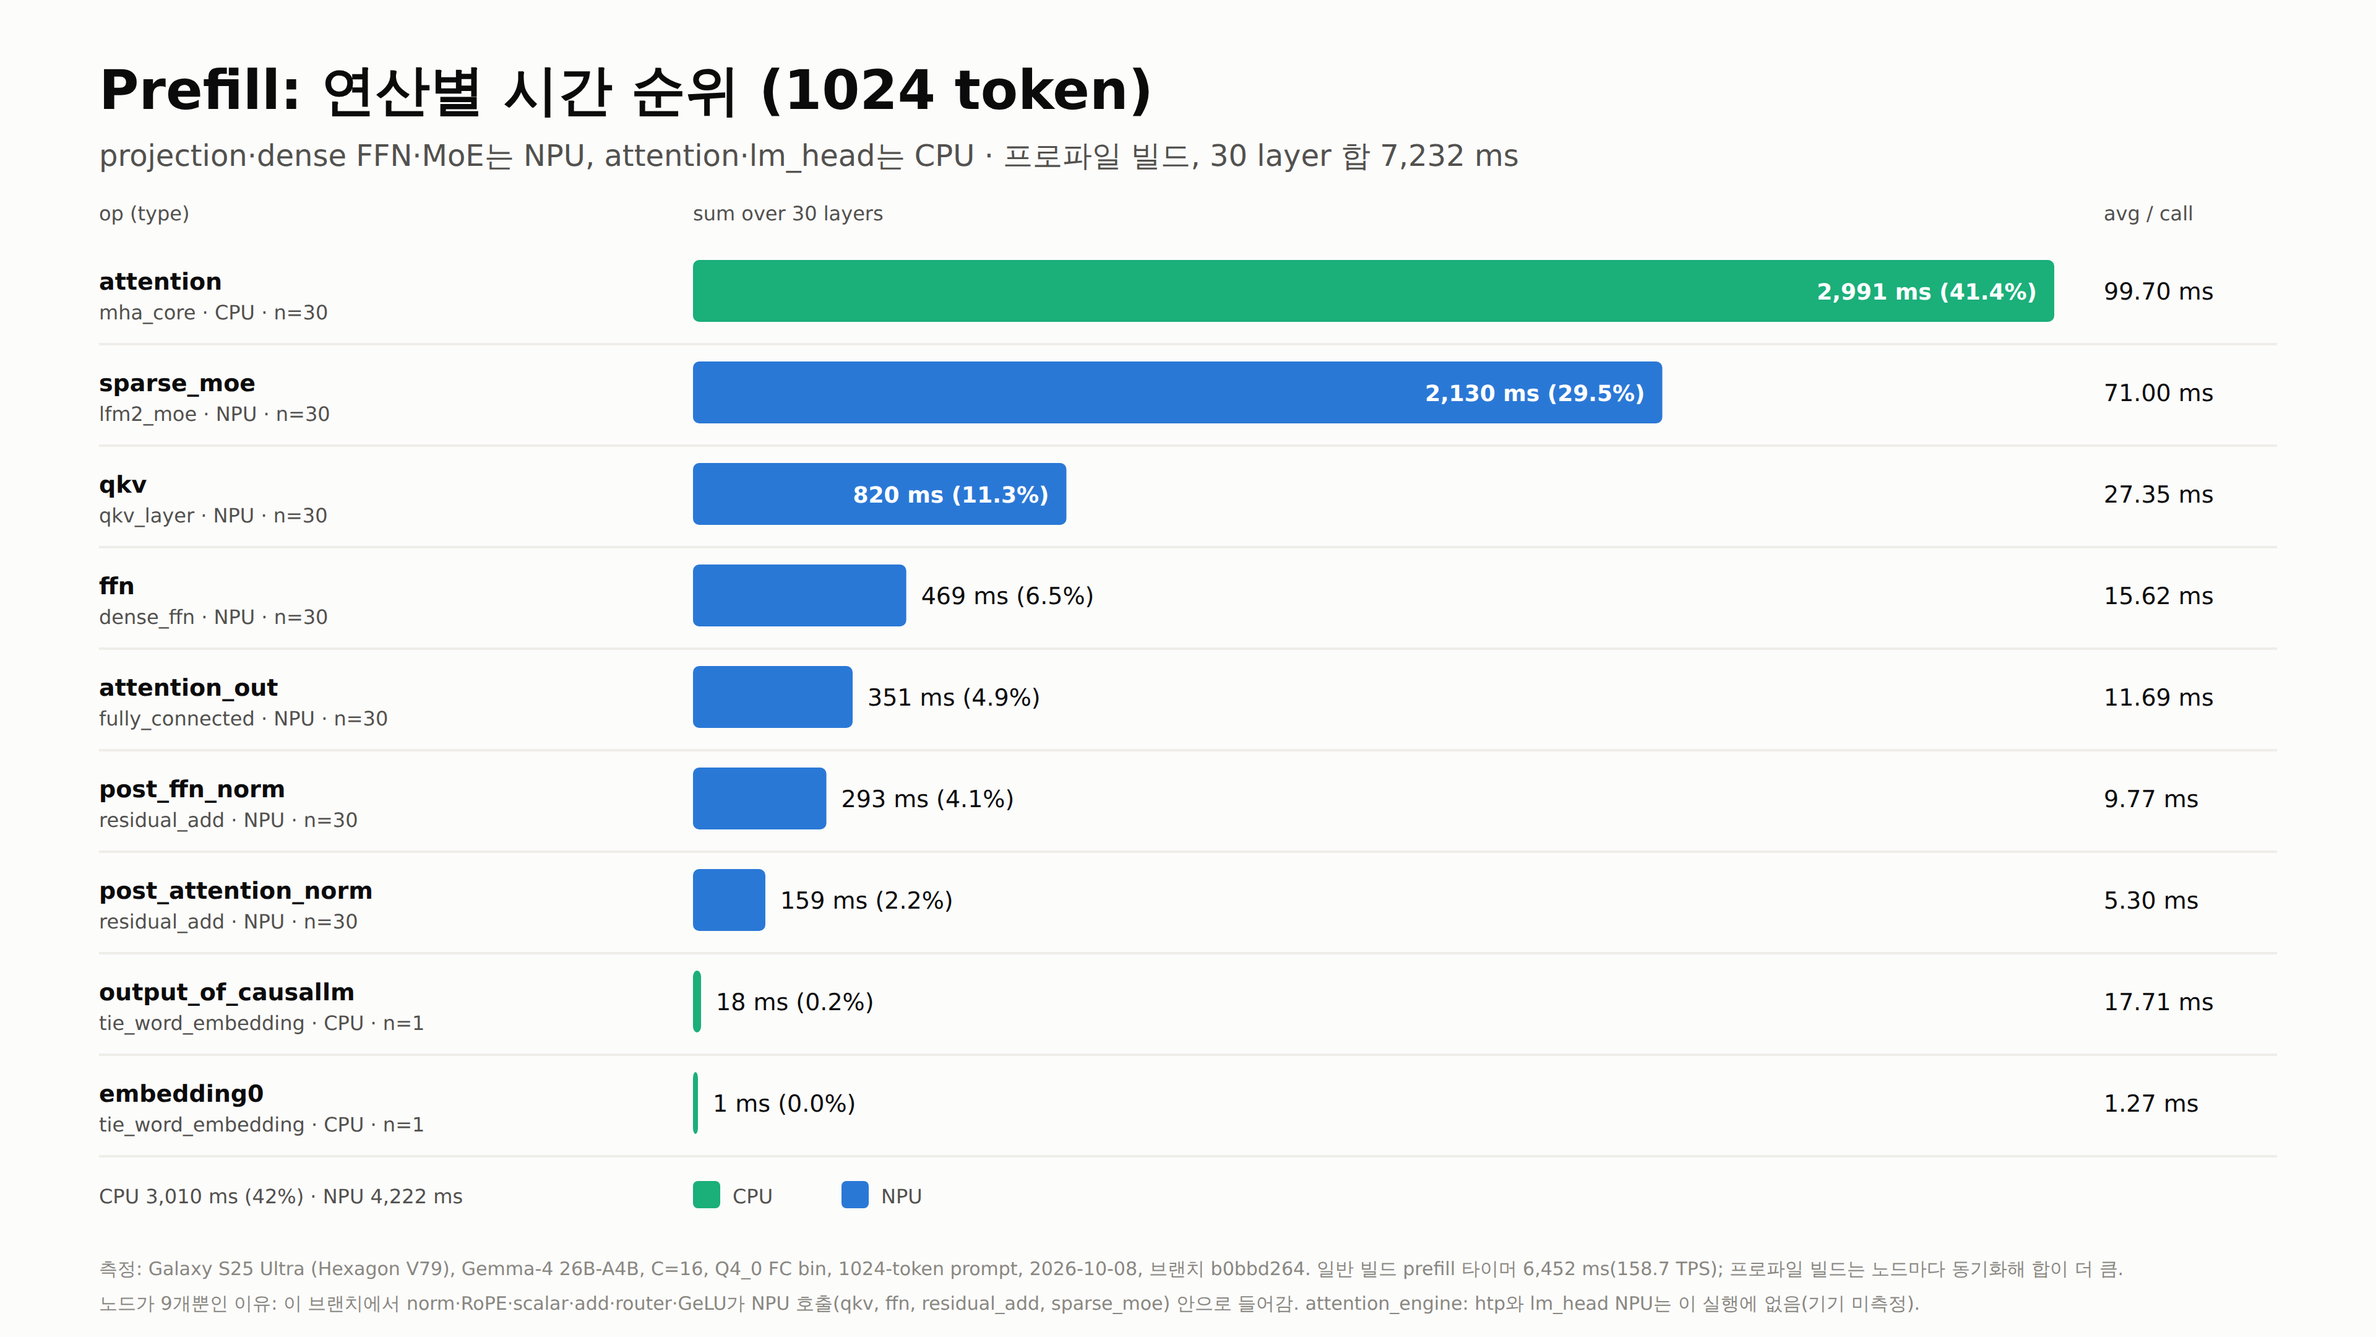
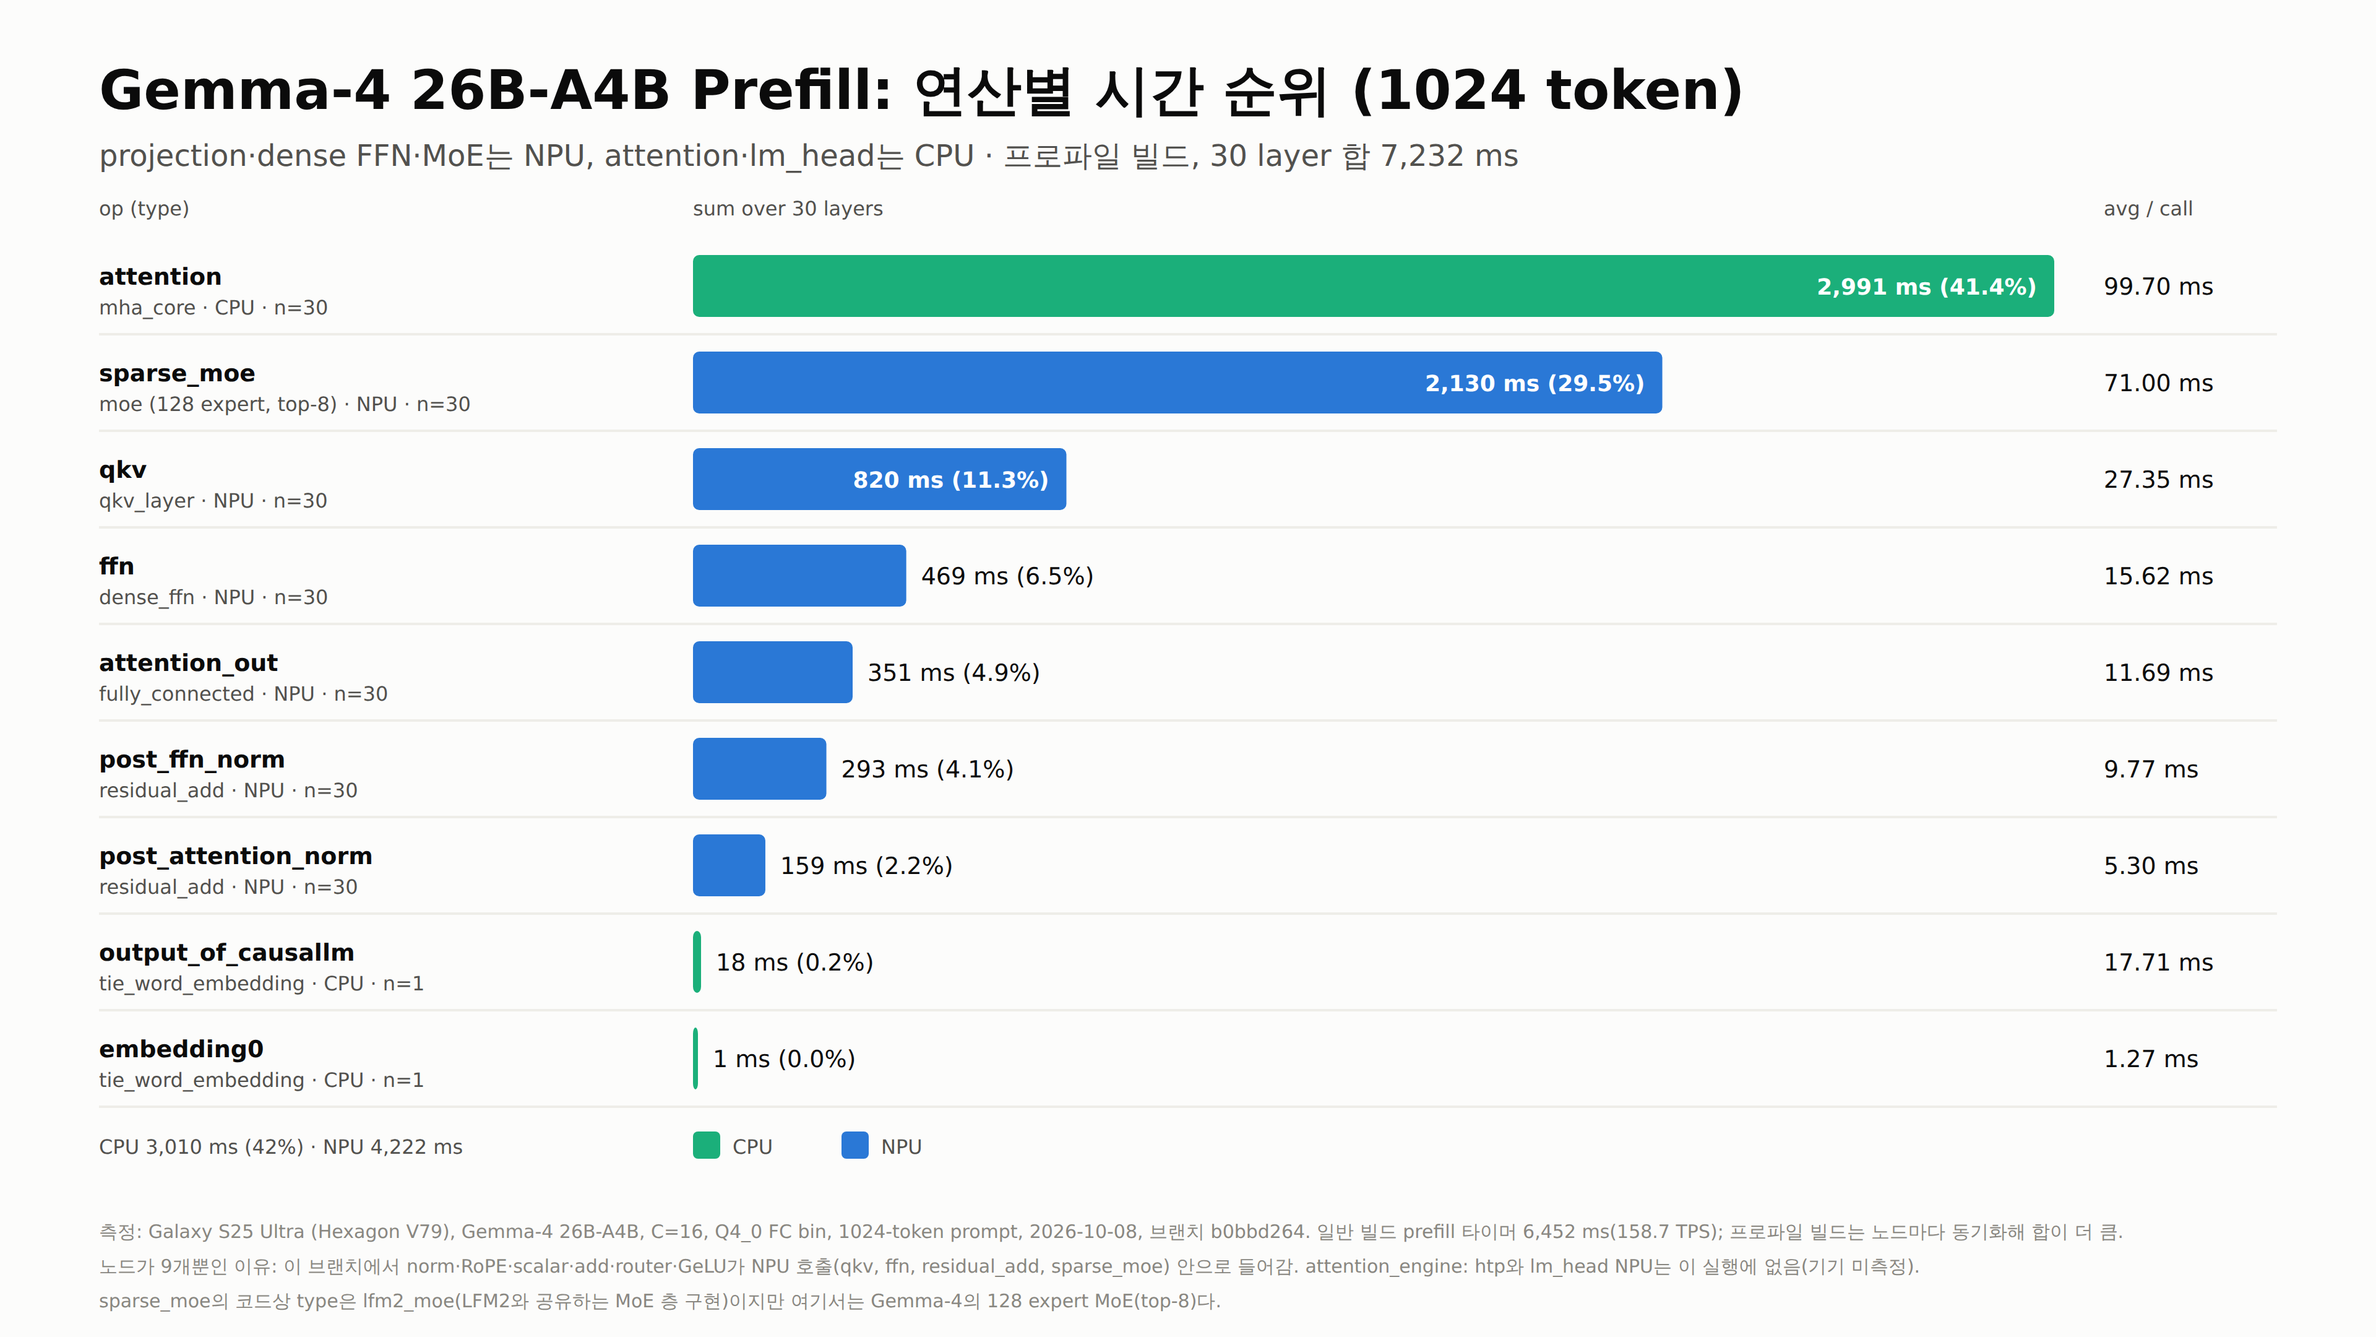
[Docs] Figure: name the MoE row as Gemma-4's, not the lfm2_moe type
Claude-Session: https://claude.ai/code/session_01DSR1wqiXYbkGfHZr8uSdzK

diff --git a/docs/htp_attention/figures/fsu/prefill_top_ops_1024.html b/docs/htp_attention/figures/fsu/prefill_top_ops_1024.html
@@ -33,70 +33,71 @@ svg { display:block; font-family:"Noto Sans KR",system-ui,sans-serif; }
 </defs>
 <rect width="1920" height="1080" fill="var(--surface)"/>
 
-<text x="80" y="88" class="t1" text-anchor="start" >Prefill: 연산별 시간 순위 (1024 token)</text>
+<text x="80" y="88" class="t1" text-anchor="start" >Gemma-4 26B-A4B Prefill: 연산별 시간 순위 (1024 token)</text>
 <text x="80" y="134" class="t2" text-anchor="start" >projection·dense FFN·MoE는 NPU, attention·lm_head는 CPU · 프로파일 빌드, 30 layer 합 7,232 ms</text>
-<text x="80" y="178" class="sm" text-anchor="start" >op (type)</text>
-<text x="560" y="178" class="sm" text-anchor="start" >sum over 30 layers</text>
-<text x="1700" y="178" class="sm" text-anchor="start" >avg / call</text>
-<text x="80" y="234" class="lbl" text-anchor="start" style="font-weight:700">attention</text>
-<text x="80" y="258" class="sm" text-anchor="start" >mha_core · CPU · n=30</text>
-<rect x="560" y="210" width="1100.0" height="50" rx="5" fill="var(--host)" />
-<text x="1646.0" y="242" class="lblw" text-anchor="end" style="font-size:18px">2,991 ms  (41.4%)</text>
-<text x="1700" y="242" class="lbl" text-anchor="start" >99.70 ms</text>
-<path d="M80,278 L1840,278" stroke="#eeede8" stroke-width="2"/>
-<text x="80" y="316" class="lbl" text-anchor="start" style="font-weight:700">sparse_moe</text>
-<text x="80" y="340" class="sm" text-anchor="start" >lfm2_moe · NPU · n=30</text>
-<rect x="560" y="292" width="783.2870850188893" height="50" rx="5" fill="var(--npu)" />
-<text x="1329.2870850188892" y="324" class="lblw" text-anchor="end" style="font-size:18px">2,130 ms  (29.5%)</text>
-<text x="1700" y="324" class="lbl" text-anchor="start" >71.00 ms</text>
-<path d="M80,360 L1840,360" stroke="#eeede8" stroke-width="2"/>
-<text x="80" y="398" class="lbl" text-anchor="start" style="font-weight:700">qkv</text>
-<text x="80" y="422" class="sm" text-anchor="start" >qkv_layer · NPU · n=30</text>
-<rect x="560" y="374" width="301.74517735949985" height="50" rx="5" fill="var(--npu)" />
-<text x="847.7451773594998" y="406" class="lblw" text-anchor="end" style="font-size:18px">820 ms  (11.3%)</text>
-<text x="1700" y="406" class="lbl" text-anchor="start" >27.35 ms</text>
-<path d="M80,442 L1840,442" stroke="#eeede8" stroke-width="2"/>
-<text x="80" y="480" class="lbl" text-anchor="start" style="font-weight:700">ffn</text>
-<text x="80" y="504" class="sm" text-anchor="start" >dense_ffn · NPU · n=30</text>
-<rect x="560" y="456" width="172.3312493731403" height="50" rx="5" fill="var(--npu)" />
-<text x="744.3312493731403" y="488" class="lbl" text-anchor="start" >469 ms  (6.5%)</text>
-<text x="1700" y="488" class="lbl" text-anchor="start" >15.62 ms</text>
-<path d="M80,524 L1840,524" stroke="#eeede8" stroke-width="2"/>
-<text x="80" y="562" class="lbl" text-anchor="start" style="font-weight:700">attention_out</text>
-<text x="80" y="586" class="sm" text-anchor="start" >fully_connected · NPU · n=30</text>
-<rect x="560" y="538" width="129.0093945371268" height="50" rx="5" fill="var(--npu)" />
-<text x="701.0093945371268" y="570" class="lbl" text-anchor="start" >351 ms  (4.9%)</text>
-<text x="1700" y="570" class="lbl" text-anchor="start" >11.69 ms</text>
-<path d="M80,606 L1840,606" stroke="#eeede8" stroke-width="2"/>
-<text x="80" y="644" class="lbl" text-anchor="start" style="font-weight:700">post_ffn_norm</text>
-<text x="80" y="668" class="sm" text-anchor="start" >residual_add · NPU · n=30</text>
-<rect x="560" y="620" width="107.78977633646485" height="50" rx="5" fill="var(--npu)" />
-<text x="679.7897763364649" y="652" class="lbl" text-anchor="start" >293 ms  (4.1%)</text>
-<text x="1700" y="652" class="lbl" text-anchor="start" >9.77 ms</text>
-<path d="M80,688 L1840,688" stroke="#eeede8" stroke-width="2"/>
-<text x="80" y="726" class="lbl" text-anchor="start" style="font-weight:700">post_attention_norm</text>
-<text x="80" y="750" class="sm" text-anchor="start" >residual_add · NPU · n=30</text>
-<rect x="560" y="702" width="58.47347129818461" height="50" rx="5" fill="var(--npu)" />
-<text x="630.4734712981846" y="734" class="lbl" text-anchor="start" >159 ms  (2.2%)</text>
-<text x="1700" y="734" class="lbl" text-anchor="start" >5.30 ms</text>
-<path d="M80,770 L1840,770" stroke="#eeede8" stroke-width="2"/>
-<text x="80" y="808" class="lbl" text-anchor="start" style="font-weight:700">output_of_causallm</text>
-<text x="80" y="832" class="sm" text-anchor="start" >tie_word_embedding · CPU · n=1</text>
-<rect x="560" y="784" width="6.509310955835646" height="50" rx="5" fill="var(--host)" />
-<text x="578.5093109558356" y="816" class="lbl" text-anchor="start" >18 ms  (0.2%)</text>
-<text x="1700" y="816" class="lbl" text-anchor="start" >17.71 ms</text>
-<path d="M80,852 L1840,852" stroke="#eeede8" stroke-width="2"/>
-<text x="80" y="890" class="lbl" text-anchor="start" style="font-weight:700">embedding0</text>
-<text x="80" y="914" class="sm" text-anchor="start" >tie_word_embedding · CPU · n=1</text>
-<rect x="560" y="866" width="4" height="50" rx="5" fill="var(--host)" />
-<text x="576" y="898" class="lbl" text-anchor="start" >1 ms  (0.0%)</text>
-<text x="1700" y="898" class="lbl" text-anchor="start" >1.27 ms</text>
-<path d="M80,934 L1840,934" stroke="#eeede8" stroke-width="2"/>
-<rect x="560" y="954" width="22" height="22" rx="4" fill="var(--host)" />
-<text x="592" y="972" class="sm" text-anchor="start" >CPU</text>
-<rect x="680" y="954" width="22" height="22" rx="4" fill="var(--npu)" />
-<text x="712" y="972" class="sm" text-anchor="start" >NPU</text>
-<text x="80" y="972" class="sm" text-anchor="start" >CPU 3,010 ms (42%) · NPU 4,222 ms</text>
-<text x="80" y="1030" class="xs" text-anchor="start" >측정: Galaxy S25 Ultra (Hexagon V79), Gemma-4 26B-A4B, C=16, Q4_0 FC bin, 1024-token prompt, 2026-10-08, 브랜치 b0bbd264. 일반 빌드 prefill 타이머 6,452 ms(158.7 TPS); 프로파일 빌드는 노드마다 동기화해 합이 더 큼.</text>
-<text x="80" y="1058" class="xs" text-anchor="start" >노드가 9개뿐인 이유: 이 브랜치에서 norm·RoPE·scalar·add·router·GeLU가 NPU 호출(qkv, ffn, residual_add, sparse_moe) 안으로 들어감. attention_engine: htp와 lm_head NPU는 이 실행에 없음(기기 미측정).</text>
+<text x="80" y="174" class="sm" text-anchor="start" >op (type)</text>
+<text x="560" y="174" class="sm" text-anchor="start" >sum over 30 layers</text>
+<text x="1700" y="174" class="sm" text-anchor="start" >avg / call</text>
+<text x="80" y="230" class="lbl" text-anchor="start" style="font-weight:700">attention</text>
+<text x="80" y="254" class="sm" text-anchor="start" >mha_core · CPU · n=30</text>
+<rect x="560" y="206" width="1100.0" height="50" rx="5" fill="var(--host)" />
+<text x="1646.0" y="238" class="lblw" text-anchor="end" style="font-size:18px">2,991 ms  (41.4%)</text>
+<text x="1700" y="238" class="lbl" text-anchor="start" >99.70 ms</text>
+<path d="M80,270 L1840,270" stroke="#eeede8" stroke-width="2"/>
+<text x="80" y="308" class="lbl" text-anchor="start" style="font-weight:700">sparse_moe</text>
+<text x="80" y="332" class="sm" text-anchor="start" >moe (128 expert, top-8) · NPU · n=30</text>
+<rect x="560" y="284" width="783.2870850188893" height="50" rx="5" fill="var(--npu)" />
+<text x="1329.2870850188892" y="316" class="lblw" text-anchor="end" style="font-size:18px">2,130 ms  (29.5%)</text>
+<text x="1700" y="316" class="lbl" text-anchor="start" >71.00 ms</text>
+<path d="M80,348 L1840,348" stroke="#eeede8" stroke-width="2"/>
+<text x="80" y="386" class="lbl" text-anchor="start" style="font-weight:700">qkv</text>
+<text x="80" y="410" class="sm" text-anchor="start" >qkv_layer · NPU · n=30</text>
+<rect x="560" y="362" width="301.74517735949985" height="50" rx="5" fill="var(--npu)" />
+<text x="847.7451773594998" y="394" class="lblw" text-anchor="end" style="font-size:18px">820 ms  (11.3%)</text>
+<text x="1700" y="394" class="lbl" text-anchor="start" >27.35 ms</text>
+<path d="M80,426 L1840,426" stroke="#eeede8" stroke-width="2"/>
+<text x="80" y="464" class="lbl" text-anchor="start" style="font-weight:700">ffn</text>
+<text x="80" y="488" class="sm" text-anchor="start" >dense_ffn · NPU · n=30</text>
+<rect x="560" y="440" width="172.3312493731403" height="50" rx="5" fill="var(--npu)" />
+<text x="744.3312493731403" y="472" class="lbl" text-anchor="start" >469 ms  (6.5%)</text>
+<text x="1700" y="472" class="lbl" text-anchor="start" >15.62 ms</text>
+<path d="M80,504 L1840,504" stroke="#eeede8" stroke-width="2"/>
+<text x="80" y="542" class="lbl" text-anchor="start" style="font-weight:700">attention_out</text>
+<text x="80" y="566" class="sm" text-anchor="start" >fully_connected · NPU · n=30</text>
+<rect x="560" y="518" width="129.0093945371268" height="50" rx="5" fill="var(--npu)" />
+<text x="701.0093945371268" y="550" class="lbl" text-anchor="start" >351 ms  (4.9%)</text>
+<text x="1700" y="550" class="lbl" text-anchor="start" >11.69 ms</text>
+<path d="M80,582 L1840,582" stroke="#eeede8" stroke-width="2"/>
+<text x="80" y="620" class="lbl" text-anchor="start" style="font-weight:700">post_ffn_norm</text>
+<text x="80" y="644" class="sm" text-anchor="start" >residual_add · NPU · n=30</text>
+<rect x="560" y="596" width="107.78977633646485" height="50" rx="5" fill="var(--npu)" />
+<text x="679.7897763364649" y="628" class="lbl" text-anchor="start" >293 ms  (4.1%)</text>
+<text x="1700" y="628" class="lbl" text-anchor="start" >9.77 ms</text>
+<path d="M80,660 L1840,660" stroke="#eeede8" stroke-width="2"/>
+<text x="80" y="698" class="lbl" text-anchor="start" style="font-weight:700">post_attention_norm</text>
+<text x="80" y="722" class="sm" text-anchor="start" >residual_add · NPU · n=30</text>
+<rect x="560" y="674" width="58.47347129818461" height="50" rx="5" fill="var(--npu)" />
+<text x="630.4734712981846" y="706" class="lbl" text-anchor="start" >159 ms  (2.2%)</text>
+<text x="1700" y="706" class="lbl" text-anchor="start" >5.30 ms</text>
+<path d="M80,738 L1840,738" stroke="#eeede8" stroke-width="2"/>
+<text x="80" y="776" class="lbl" text-anchor="start" style="font-weight:700">output_of_causallm</text>
+<text x="80" y="800" class="sm" text-anchor="start" >tie_word_embedding · CPU · n=1</text>
+<rect x="560" y="752" width="6.509310955835646" height="50" rx="5" fill="var(--host)" />
+<text x="578.5093109558356" y="784" class="lbl" text-anchor="start" >18 ms  (0.2%)</text>
+<text x="1700" y="784" class="lbl" text-anchor="start" >17.71 ms</text>
+<path d="M80,816 L1840,816" stroke="#eeede8" stroke-width="2"/>
+<text x="80" y="854" class="lbl" text-anchor="start" style="font-weight:700">embedding0</text>
+<text x="80" y="878" class="sm" text-anchor="start" >tie_word_embedding · CPU · n=1</text>
+<rect x="560" y="830" width="4" height="50" rx="5" fill="var(--host)" />
+<text x="576" y="862" class="lbl" text-anchor="start" >1 ms  (0.0%)</text>
+<text x="1700" y="862" class="lbl" text-anchor="start" >1.27 ms</text>
+<path d="M80,894 L1840,894" stroke="#eeede8" stroke-width="2"/>
+<rect x="560" y="914" width="22" height="22" rx="4" fill="var(--host)" />
+<text x="592" y="932" class="sm" text-anchor="start" >CPU</text>
+<rect x="680" y="914" width="22" height="22" rx="4" fill="var(--npu)" />
+<text x="712" y="932" class="sm" text-anchor="start" >NPU</text>
+<text x="80" y="932" class="sm" text-anchor="start" >CPU 3,010 ms (42%) · NPU 4,222 ms</text>
+<text x="80" y="1000" class="xs" text-anchor="start" >측정: Galaxy S25 Ultra (Hexagon V79), Gemma-4 26B-A4B, C=16, Q4_0 FC bin, 1024-token prompt, 2026-10-08, 브랜치 b0bbd264. 일반 빌드 prefill 타이머 6,452 ms(158.7 TPS); 프로파일 빌드는 노드마다 동기화해 합이 더 큼.</text>
+<text x="80" y="1028" class="xs" text-anchor="start" >노드가 9개뿐인 이유: 이 브랜치에서 norm·RoPE·scalar·add·router·GeLU가 NPU 호출(qkv, ffn, residual_add, sparse_moe) 안으로 들어감. attention_engine: htp와 lm_head NPU는 이 실행에 없음(기기 미측정).</text>
+<text x="80" y="1056" class="xs" text-anchor="start" >sparse_moe의 코드상 type은 lfm2_moe(LFM2와 공유하는 MoE 층 구현)이지만 여기서는 Gemma-4의 128 expert MoE(top-8)다.</text>
 </svg></body></html>

diff --git a/docs/htp_attention/figures/fsu/gen.py b/docs/htp_attention/figures/fsu/gen.py
@@ -666,10 +666,10 @@ def figR():
     """prefill_timeline.py --by-op at 1024 tokens on this branch (doc 57
     section 9.12), ranked: one bar per op, CPU/NPU by colour."""
     o = [HEAD.format(title="Top ops by time")]
-    o.append(text(80, 88, "Prefill: 연산별 시간 순위 (1024 token)", "t1"))
+    o.append(text(80, 88, "Gemma-4 26B-A4B Prefill: 연산별 시간 순위 (1024 token)", "t1"))
     o.append(text(80, 134, "projection·dense FFN·MoE는 NPU, attention·lm_head는 CPU · 프로파일 빌드, 30 layer 합 7,232 ms", "t2"))
     rows = [("attention", "mha_core", "CPU", 30, 99.70, 2991.1),
-            ("sparse_moe", "lfm2_moe", "NPU", 30, 71.00, 2129.9),
+            ("sparse_moe", "moe (128 expert, top-8)", "NPU", 30, 71.00, 2129.9),
             ("qkv", "qkv_layer", "NPU", 30, 27.35, 820.5),
             ("ffn", "dense_ffn", "NPU", 30, 15.62, 468.6),
             ("attention_out", "fully_connected", "NPU", 30, 11.69, 350.8),
@@ -679,7 +679,7 @@ def figR():
             ("embedding0", "tie_word_embedding", "CPU", 1, 1.27, 1.3)]
     total = sum(r[5] for r in rows)
     fill = {"CPU": "var(--host)", "NPU": "var(--npu)"}
-    x0, bw, y0, rh = 560, 1100, 200, 82
+    x0, bw, y0, rh = 560, 1100, 196, 78
     o.append(text(80, y0 - 22, "op (type)", "sm"))
     o.append(text(x0, y0 - 22, "sum over 30 layers", "sm"))
     o.append(text(1700, y0 - 22, "avg / call", "sm"))
@@ -702,10 +702,11 @@ def figR():
         o.append(text(x0 + i * 120 + 32, ly + 18, lb, "sm"))
     o.append(text(80, ly + 18, f"CPU {sum(r[5] for r in rows if r[2] == 'CPU'):,.0f} ms ({100 * sum(r[5] for r in rows if r[2] == 'CPU') / total:.0f}%) · "
                               f"NPU {sum(r[5] for r in rows if r[2] == 'NPU'):,.0f} ms", "sm"))
-    o.append(text(80, 1030, "측정: Galaxy S25 Ultra (Hexagon V79), Gemma-4 26B-A4B, C=16, Q4_0 FC bin, 1024-token prompt, 2026-10-08, 브랜치 b0bbd264. "
+    o.append(text(80, 1000, "측정: Galaxy S25 Ultra (Hexagon V79), Gemma-4 26B-A4B, C=16, Q4_0 FC bin, 1024-token prompt, 2026-10-08, 브랜치 b0bbd264. "
                             "일반 빌드 prefill 타이머 6,452 ms(158.7 TPS); 프로파일 빌드는 노드마다 동기화해 합이 더 큼.", "xs"))
-    o.append(text(80, 1058, "노드가 9개뿐인 이유: 이 브랜치에서 norm·RoPE·scalar·add·router·GeLU가 NPU 호출(qkv, ffn, residual_add, sparse_moe) 안으로 들어감. "
+    o.append(text(80, 1028, "노드가 9개뿐인 이유: 이 브랜치에서 norm·RoPE·scalar·add·router·GeLU가 NPU 호출(qkv, ffn, residual_add, sparse_moe) 안으로 들어감. "
                             "attention_engine: htp와 lm_head NPU는 이 실행에 없음(기기 미측정).", "xs"))
+    o.append(text(80, 1056, "sparse_moe의 코드상 type은 lfm2_moe(LFM2와 공유하는 MoE 층 구현)이지만 여기서는 Gemma-4의 128 expert MoE(top-8)다.", "xs"))
     o.append(TAIL)
     return "\n".join(o)
 
